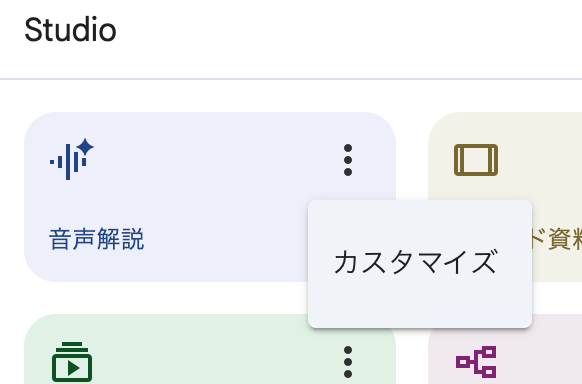
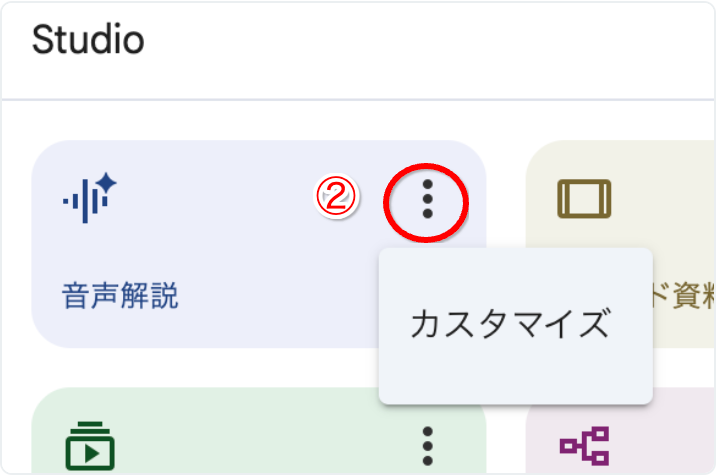
Split Step 1-2 into ① Slide and ② Audio with annotated screenshots

diff --git a/docs/index.html b/docs/index.html
@@ -853,27 +853,17 @@
                 </div>
 
                 <h3><span class="material-icons">auto_awesome</span> Step 1-2：スライド資料と音声解説の生成</h3>
-                <ol>
-                    <li>画面右側の <strong>Studio パネル</strong> にある <strong>「スライド資料」</strong> カードをクリックします（カスタマイズなしでそのまま生成が始まります）。</li>
-                    <li>続けて、隣の <strong>「音声解説」</strong> カード右上の <strong>「⋮」</strong> をクリックし、<strong>「カスタマイズ」</strong> を選択します。</li>
-                    <li>以下のプロンプトを貼り付けて生成を開始します。</li>
-                </ol>
 
-                <div class="screenshot-grid">
-                    <div class="screenshot-card">
-                        <div class="screenshot-caption">
-                            <span class="material-icons" style="font-size:16px;">touch_app</span>
-                            ①「スライド資料」をクリック ／ ②「音声解説」の「⋮」をクリック
-                        </div>
-                        <img src="./images/studio_panel.png" alt="Studioパネルの操作箇所">
-                    </div>
-                    <div class="screenshot-card">
-                        <div class="screenshot-caption">
-                            <span class="material-icons" style="font-size:16px;">tune</span>
-                            ③「カスタマイズ」をクリックしてプロンプトを入力
-                        </div>
-                        <img src="./images/audio_customize.png" alt="音声解説のカスタマイズ選択">
-                    </div>
+                <h4>① スライド資料の生成</h4>
+                <p>画面右側の <strong>Studio パネル</strong> にある <strong>「スライド資料」（図①）</strong> をクリックします。カスタマイズなしでそのまま自動生成が始まります。</p>
+                <div class="screenshot-card" style="max-width: 380px; margin: 12px 0 24px;">
+                    <img src="./images/studio_panel.png" alt="① スライド資料をクリック">
+                </div>
+
+                <h4>② 音声解説の生成</h4>
+                <p>続けて <strong>「音声解説」</strong> 右上の <strong>「⋮」（図②）</strong> をクリックし、<strong>「カスタマイズ」</strong> を選択して以下のプロンプトを入力します。</p>
+                <div class="screenshot-card" style="max-width: 380px; margin: 12px 0 16px;">
+                    <img src="./images/audio_customize.png" alt="② 音声解説の「⋮」からカスタマイズを選択">
                 </div>
 
                 <!-- 音声解説カスタマイズプロンプト（1つに統一） -->
